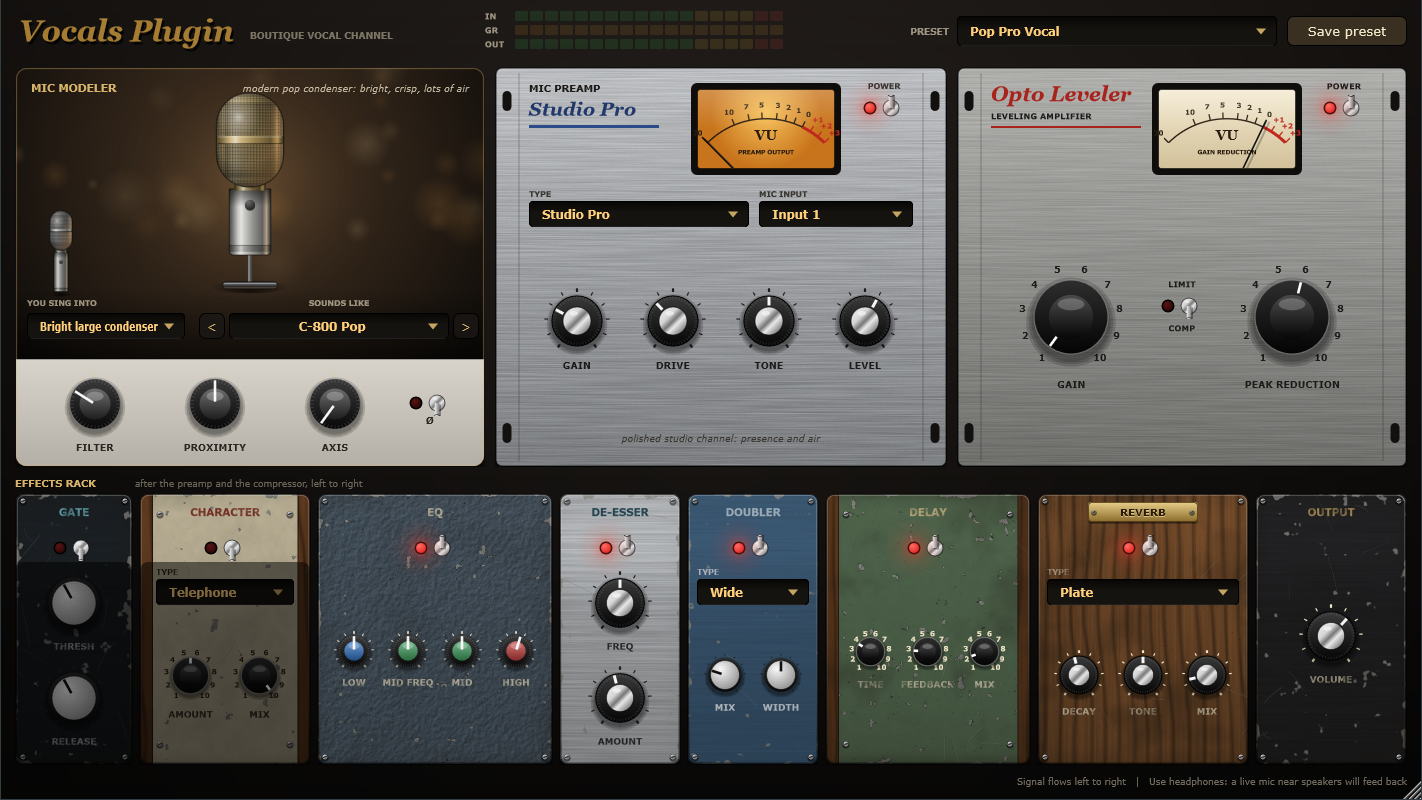
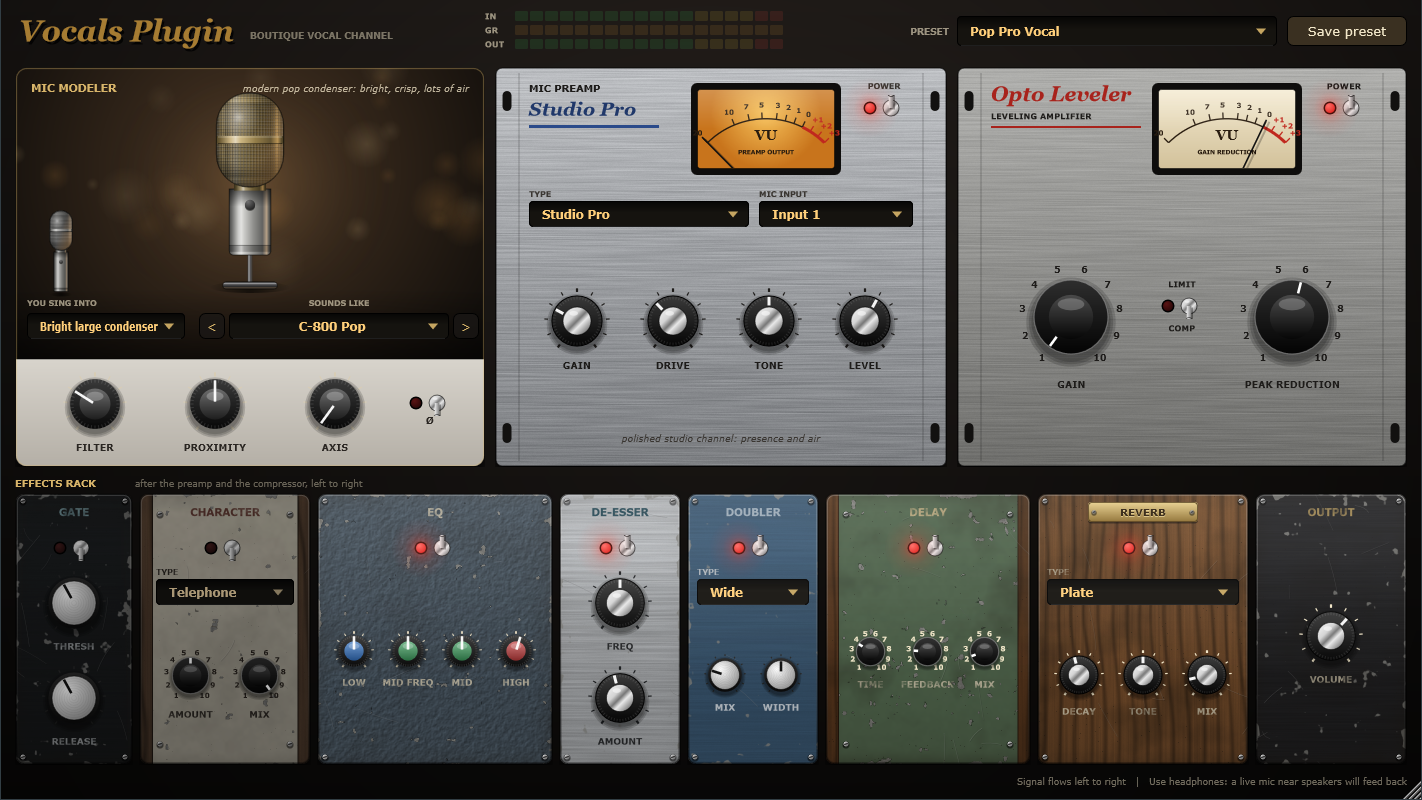
1.0.2: lit pedals when on, greyed pedals when off; updated screenshots

diff --git a/index.html b/index.html
@@ -168,9 +168,9 @@
       <p class="lead">Vocals Plugin is a complete vocal studio channel: a microphone modeler, seven preamps,
         an optical leveler and a rack of eight effects. Pick a preset and the difference is immediate.</p>
       <div class="cta">
-        <a class="btn primary" href="https://github.com/Ale-Studios/VocalsPlugin/releases/latest/download/VocalsPlugin-1.0.1-Setup.exe">Download for Windows</a>
+        <a class="btn primary" href="https://github.com/Ale-Studios/VocalsPlugin/releases/latest/download/VocalsPlugin-1.0.2-Setup.exe">Download for Windows</a>
         <a class="btn ghost" href="https://github.com/Ale-Studios/VocalsPlugin">GitHub page</a>
-        <span class="fine mono">v1.0.1 · installer · Windows 10/11 64-bit</span>
+        <span class="fine mono">v1.0.2 · installer · Windows 10/11 64-bit</span>
       </div>
     </div>
     <div class="monitor"><img src="media/shots/pop-pro-vocal.png" alt="Vocals Plugin: mic modeler, mic preamp, opto leveler and the effects rack" width="1422" height="800"></div>
@@ -271,7 +271,7 @@
     <div class="tag">05 — Download</div>
     <h2>Set up in a few minutes.</h2>
     <div class="steps">
-      <div class="step"><h3>Install</h3><p>Run <code>VocalsPlugin-1.0.1-Setup.exe</code> from the <a href="https://github.com/Ale-Studios/VocalsPlugin/releases/latest">latest release</a> and choose the app, the VST3 plugin or both.</p></div>
+      <div class="step"><h3>Install</h3><p>Run <code>VocalsPlugin-1.0.2-Setup.exe</code> from the <a href="https://github.com/Ale-Studios/VocalsPlugin/releases/latest">latest release</a> and choose the app, the VST3 plugin or both.</p></div>
       <div class="step"><h3>Standalone</h3><p>Open <b>Vocals Plugin</b> from the Start menu, then <b>Options → Audio/MIDI Settings</b>. Choose your interface, put on headphones and untick <b>Mute audio input</b>.</p></div>
       <div class="step"><h3>Plugin</h3><p>The installer puts it in the standard VST3 folder. Rescan plugins in your DAW and put it on a vocal track.</p></div>
     </div>

diff --git a/MANUAL.md b/MANUAL.md
@@ -1,6 +1,6 @@
 # Vocals Plugin — Manual
 
-Version 1.0.1 · Windows 10 / 11 (64-bit) · VST3 plugin and standalone app
+Version 1.0.2 · Windows 10 / 11 (64-bit) · VST3 plugin and standalone app
 
 - [Getting started](#getting-started)
 - [The signal chain](#the-signal-chain)
@@ -19,7 +19,7 @@ Version 1.0.1 · Windows 10 / 11 (64-bit) · VST3 plugin and standalone app
 1. Plug your microphone into your audio interface. If it is a condenser mic, switch on the
    interface's phantom power (48V).
 2. Put on **headphones**. An open microphone near speakers will feed back.
-3. Run `VocalsPlugin-1.0.1-Setup.exe` and choose the standalone app, the VST3 plugin or both.
+3. Run `VocalsPlugin-1.0.2-Setup.exe` and choose the standalone app, the VST3 plugin or both.
    **Standalone:** open **Vocals Plugin** from the Start menu, then **Options → Audio/MIDI Settings**. Choose your
    interface as input and output and untick **Mute audio input**. The input starts muted
    for safety.

diff --git a/README.md b/README.md
@@ -93,7 +93,7 @@ not just a louder one. You can save your own vocal chains next to them.
 
 ## Download & install
 
-1. Download **`VocalsPlugin-1.0.1-Setup.exe`** from [Releases](../../releases/latest) and run it.
+1. Download **`VocalsPlugin-1.0.2-Setup.exe`** from [Releases](../../releases/latest) and run it.
    Choose the standalone app, the VST3 plugin or both. The plugin goes into the standard VST3 folder,
    `C:\Program Files\Common Files\VST3`, where every DAW looks.
 2. **Standalone:** open **Vocals Plugin** from the Start menu, then **Options → Audio/MIDI Settings**,
